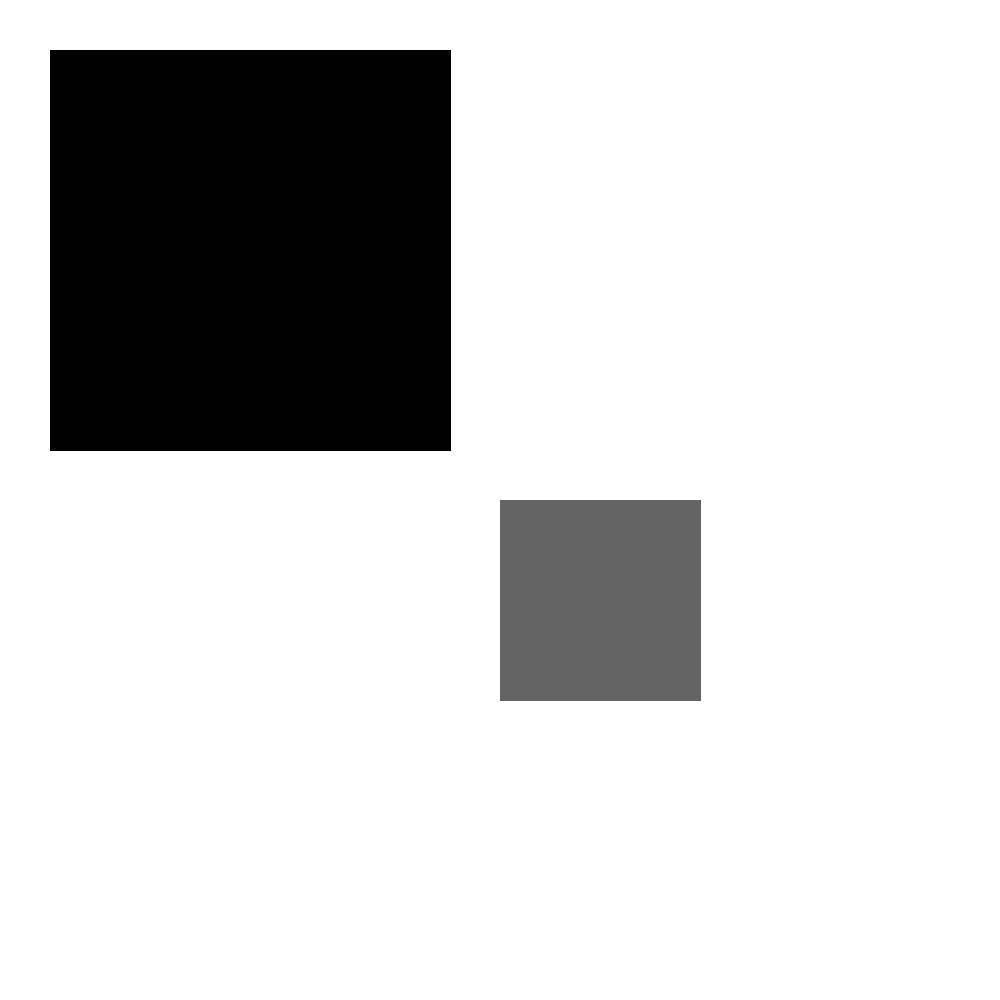
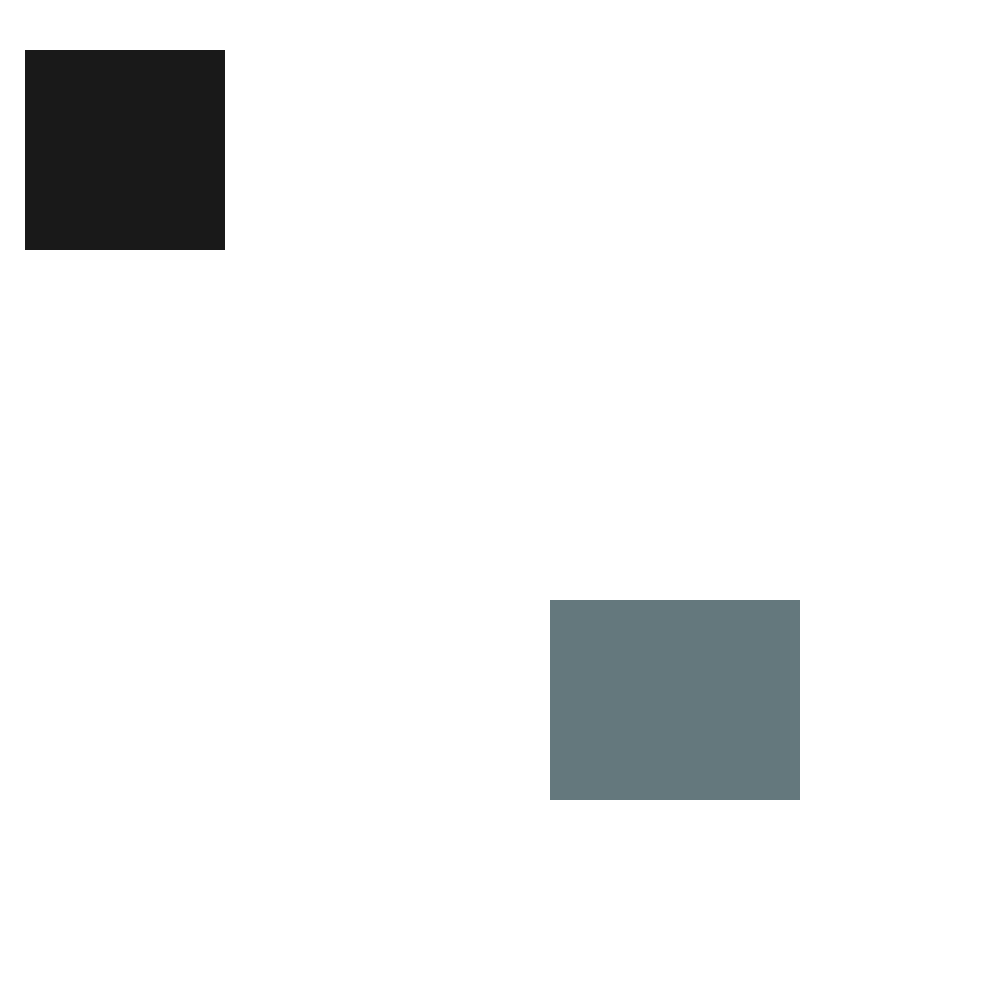
Final code optimizations

Changed region(s): [[0.0, 0.031, 0.465, 0.465], [0.496, 0.496, 0.806, 0.806]]

diff --git a/Math Painter App/main.py b/Math Painter App/main.py
@@ -49,8 +49,14 @@ while True:
 
     x_of_shape = input_int(f"Enter x of the {shape}: ")
     y_of_shape = input_int(f"Enter y of the {shape}: ")
-    width_of_shape = input_int(f"Enter the width of the {shape}: ")
-    height_of_shape = input_int(f"Enter the height of the {shape}: ")
+
+    if shape == "square":
+        width_of_shape = input_int(f"Enter the side of the {shape}: ")
+        height_of_shape = width_of_shape
+    else:
+        width_of_shape = input_int(f"Enter the width of the {shape}: ")
+        height_of_shape = input_int(f"Enter the height of the {shape}: ")
+
     red_in_shape = input_int(f"How much red should the {shape} have? ")
     green_in_shape = input_int(f"How much green should the {shape} have? ")
     blue_in_shape = input_int(f"How much blue should the {shape} have? ")
@@ -58,7 +64,7 @@ while True:
     our_starting_coordinates = (x_of_shape, y_of_shape)
     our_colors = (red_in_shape, green_in_shape, blue_in_shape)
     our_shape = Shape(shape, our_starting_coordinates, width_of_shape, height_of_shape, our_colors)
-    canvas_data = our_shape.add_shape_info_to_data(our_canvas.data)
+    our_shape.add_shape_info_to_data(our_canvas)
 
 our_canvas.export_the_image(our_canvas.data)
 

diff --git a/Math Painter App/shape.py b/Math Painter App/shape.py
@@ -7,7 +7,7 @@ class Shape:
         self.starting_coordinates = starting_coordinates
         self.shape_type = shape_type
 
-    def add_shape_info_to_data(self, data):
+    def add_shape_info_to_data(self, canvas):
         x = self.starting_coordinates[0]
         y = self.starting_coordinates[1]
         r = self.colorRGB[0]
@@ -17,6 +17,6 @@ class Shape:
         if self.shape_type.lower() == "square":
             self.height = self.width
 
-        data[x: (x + self.width + 1), y: (y + self.height + 1)] = [r, g, b]
+        canvas.data[x: (x + self.width), y: (y + self.height)] = [r, g, b]
 
-        return data
+
